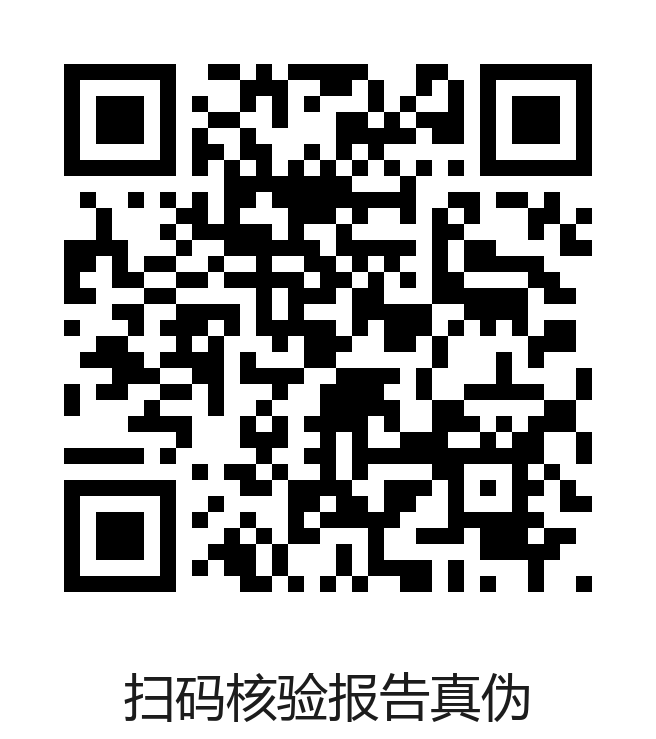
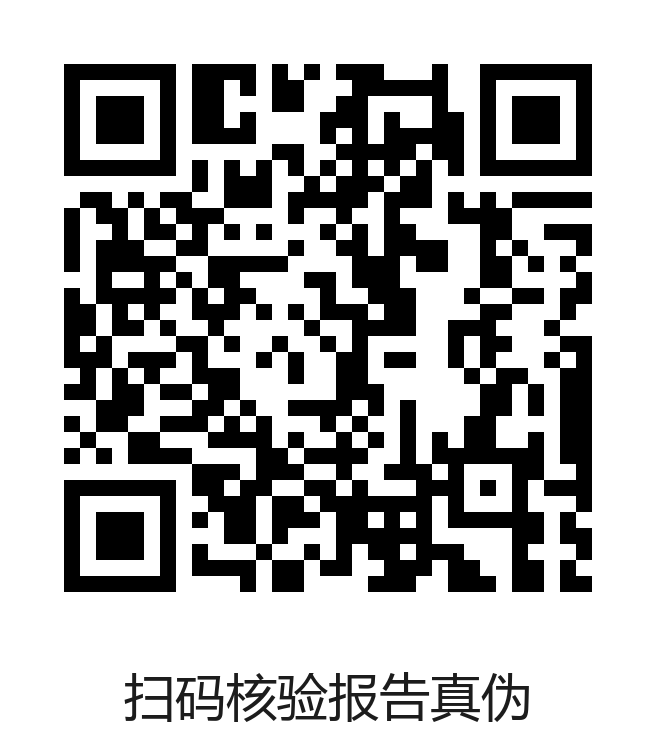
域名切换为 verify.fqez.me

Changed region(s): [[0.0915, 0.0622, 0.9146, 0.8092]]

diff --git a/dns_dnspod.py b/dns_dnspod.py
@@ -1,0 +1,68 @@
+"""DNSPod 记录管理（可选）。
+
+需要环境变量 DNSPOD_TOKEN，格式为 "ID,Token"（在 https://console.dnspod.cn/account/token 创建）。
+
+    python dns_dnspod.py list   --domain ffuf.cn
+    python dns_dnspod.py create --domain ffuf.cn --sub verify --type CNAME --value yi111111321.github.io
+"""
+
+from __future__ import annotations
+
+import argparse
+import json
+import os
+import sys
+import urllib.parse
+import urllib.request
+
+API = "https://dnsapi.cn/"
+TOKEN = os.environ.get("DNSPOD_TOKEN", "").strip()
+
+
+def call(path: str, **params) -> dict:
+    if not TOKEN:
+        sys.exit("DNSPOD_TOKEN 未设置（格式：ID,Token）")
+    data = {"login_token": TOKEN, "format": "json", "lang": "cn", **params}
+    req = urllib.request.Request(
+        API + path,
+        data=urllib.parse.urlencode(data).encode(),
+        headers={"User-Agent": "sqi-report-verify/1.0"},
+    )
+    with urllib.request.urlopen(req, timeout=20) as r:
+        return json.loads(r.read().decode())
+
+
+def main() -> None:
+    parser = argparse.ArgumentParser()
+    parser.add_argument("action", choices=["list", "create"])
+    parser.add_argument("--domain", required=True)
+    parser.add_argument("--sub", default="verify")
+    parser.add_argument("--type", default="CNAME")
+    parser.add_argument("--value", default="yi111111321.github.io")
+    parser.add_argument("--ttl", default="600")
+    args = parser.parse_args()
+
+    if args.action == "list":
+        res = call("Record.List", domain=args.domain)
+        status = res.get("status", {})
+        print(f"status: {status.get('code')} {status.get('message')}")
+        for rec in res.get("records", []):
+            print(f"  {rec.get('name'):12s} {rec.get('type'):6s} {rec.get('value')}  ttl={rec.get('ttl')}")
+        return
+
+    res = call(
+        "Record.Create",
+        domain=args.domain,
+        sub_domain=args.sub,
+        record_type=args.type,
+        record_line="默认",
+        value=args.value,
+        ttl=args.ttl,
+    )
+    status = res.get("status", {})
+    print(f"status: {status.get('code')} {status.get('message')}")
+    print(json.dumps(res.get("record", {}), ensure_ascii=False, indent=2))
+
+
+if __name__ == "__main__":
+    main()
